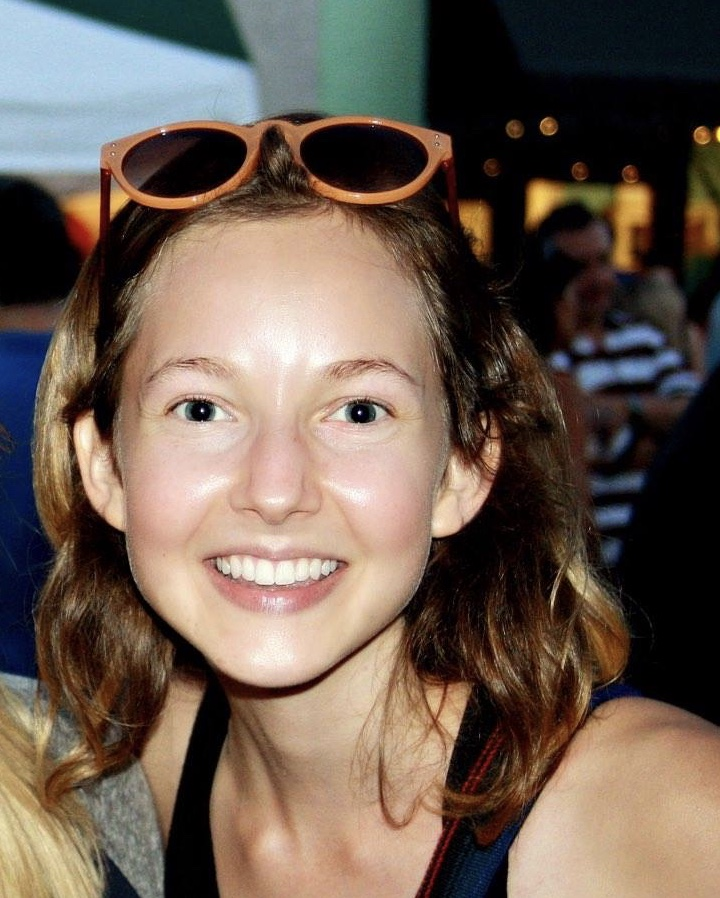
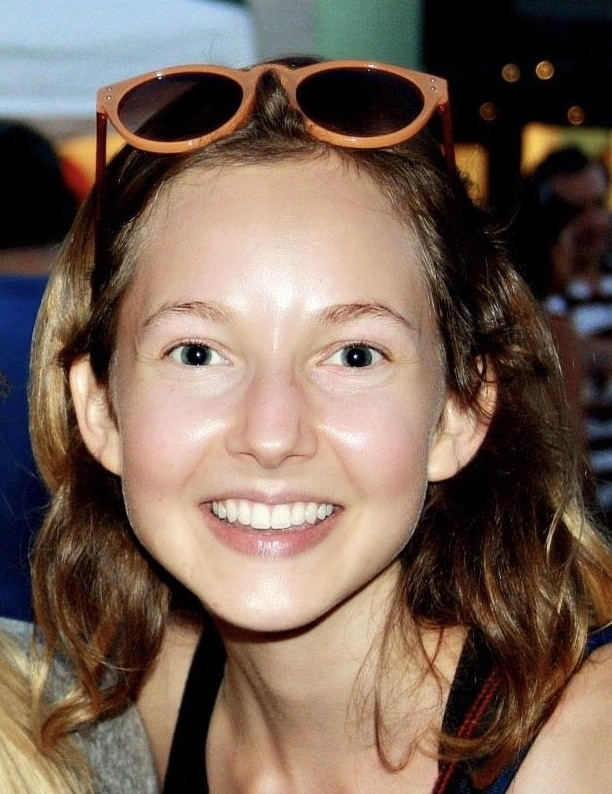
Edited pictures of exec to be more uniform (square) and worked on format a bit
Edited pictures of exec to be more uniform (square) and worked on format a bit

diff --git a/a_about_us.md b/a_about_us.md
@@ -35,19 +35,13 @@ author: null
 		</div>
 	</section>
 	<section id="two" class="spotlights">
-				<section><!--<span class="image left"><img src="assets/images/memberPictures/CassidySoutter.JPG" alt="" /></span>-->
-					<a href="generic.html" class="image">
-						<img src="assets/images/memberPictures/CassidySoutter.JPG" alt="" data-position="center center" />
-					</a>
-							<p>Lorem ipsum dolor sit accumsan interdum nisi, quis tincidunt felis sagittis eget. tempus euismod. Vestibulum ante ipsum primis in faucibus vestibulum. Blandit adipiscing eu felis iaculis volutpat ac adipiscing accumsan eu faucibus. Integer ac pellentesque praesent tincidunt felis sagittis eget. tempus euismod. Vestibulum ante ipsum primis sagittis eget. tempus euismod. Vestibulum ante ipsum primis in faucibus vestibulum. Blandit adipiscing eu felis iaculis volutpat ac adipiscing accumsan eu faucibus. Integer ac pellentesque praesent tincidunt felis sagittis eget tempus vestibulum ante ipsum primis in faucibus magna blandit adipiscing eu felis iaculis.</p>
-				</section>
+				<section><p><span class="image left"><img src="assets/images/memberPictures/CassidySoutter.JPG" alt="" /></span>Lorem ipsum dolor sit accumsan interdum nisi, quis tincidunt felis sagittis eget. tempus euismod. Vestibulum ante ipsum primis in faucibus vestibulum. Blandit adipiscing eu felis iaculis volutpat ac adipiscing accumsan eu faucibus. Integer ac pellentesque praesent tincidunt felis sagittis eget. tempus euismod. Vestibulum ante ipsum primis sagittis eget. tempus euismod. Vestibulum ante ipsum primis in faucibus vestibulum. Blandit adipiscing eu felis iaculis volutpat ac adipiscing accumsan eu faucibus. Integer ac pellentesque praesent tincidunt felis sagittis eget tempus vestibulum ante ipsum primis in faucibus magna blandit adipiscing eu felis iaculis.</p></section>
 
 				<section><p><span class="image right"><img src="assets/images/memberPictures/IzziHinks.jpg" alt="" /></span>Lorem ipsum dolor sit accumsan interdum nisi, quis tincidunt felis sagittis eget. tempus euismod. Vestibulum ante ipsum primis in faucibus vestibulum. Blandit adipiscing eu felis iaculis volutpat ac adipiscing accumsan eu faucibus. Integer ac pellentesque praesent tincidunt felis sagittis eget. tempus euismod. Vestibulum ante ipsum primis sagittis eget. tempus euismod. Vestibulum ante ipsum primis in faucibus vestibulum. Blandit adipiscing eu felis iaculis volutpat ac adipiscing accumsan eu faucibus. Integer ac pellentesque praesent tincidunt felis sagittis eget tempus vestibulum ante ipsum primis in faucibus magna blandit adipiscing eu felis iaculis.</p></section>
 
 				<section><p><span class="image left"><img src="assets/images/memberPictures/AustinWang.jpg" alt="" /></span>Lorem ipsum dolor sit accumsan interdum nisi, quis tincidunt felis sagittis eget. tempus euismod. Vestibulum ante ipsum primis in faucibus vestibulum. Blandit adipiscing eu felis iaculis volutpat ac adipiscing accumsan eu faucibus. Integer ac pellentesque praesent tincidunt felis sagittis eget. tempus euismod. Vestibulum ante ipsum primis sagittis eget. tempus euismod. Vestibulum ante ipsum primis in faucibus vestibulum. Blandit adipiscing eu felis iaculis volutpat ac adipiscing accumsan eu faucibus. Integer ac pellentesque praesent tincidunt felis sagittis eget tempus vestibulum ante ipsum primis in faucibus magna blandit adipiscing eu felis iaculis.</p></section>
 
 				<section><p><span class="image right"><img src="assets/images/memberPictures/TimothyLo.JPG" alt="" /></span>Lorem ipsum dolor sit accumsan interdum nisi, quis tincidunt felis sagittis eget. tempus euismod. Vestibulum ante ipsum primis in faucibus vestibulum. Blandit adipiscing eu felis iaculis volutpat ac adipiscing accumsan eu faucibus. Integer ac pellentesque praesent tincidunt felis sagittis eget. tempus euismod. Vestibulum ante ipsum primis sagittis eget. tempus euismod. Vestibulum ante ipsum primis in faucibus vestibulum. Blandit adipiscing eu felis iaculis volutpat ac adipiscing accumsan eu faucibus. Integer ac pellentesque praesent tincidunt felis sagittis eget tempus vestibulum ante ipsum primis in faucibus magna blandit adipiscing eu felis iaculis.</p></section>
-			</section>
 	</section>
 	<section id="Member">
 		<div class="inner">
